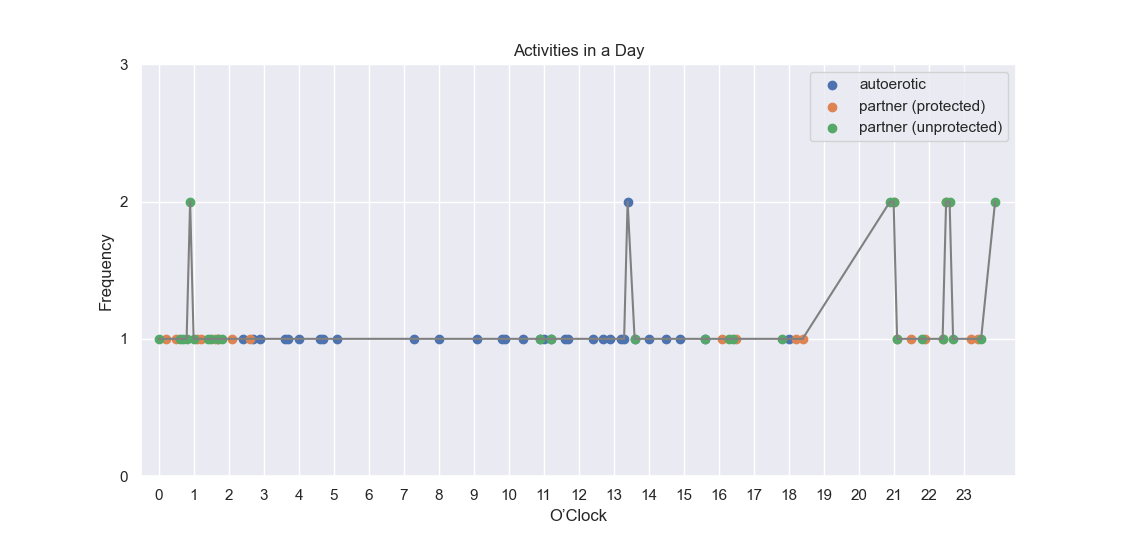
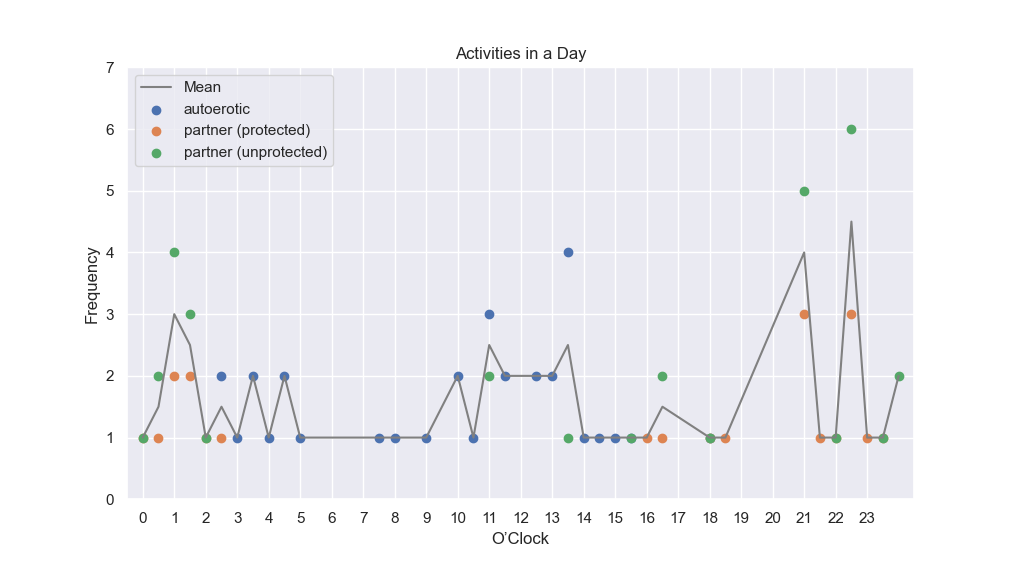
Improve plot_day for smaller data sizes

diff --git a/sex_stats.py b/sex_stats.py
@@ -11,7 +11,7 @@ import seaborn as sns
 from matplotlib.gridspec import GridSpec
 from pandas import DataFrame, read_csv, to_datetime
 
-__version__ = '1.2 (i-miss-you)'
+__version__ = '1.3 (i-miss-you)'
 
 
 class Regex(str, Enum):
@@ -130,21 +130,42 @@ def plot_freq_bar(df, offset_alias: str = 'M', ax=None, legend: bool = True):
     ax.set_xlabel(f'Period ({offset_alias})')
 
 
+def time_function(df: DataFrame):
+    """Returns a function that calculates o’clock fractions.
+
+    Should I keep narrowing the divisions as the size goes bigger?
+        -> no, because < 1 min does not make sense. 6 mins already suffice.
+    """
+    data_size = df.shape[0]
+
+    def fn(x):
+        if data_size <= 50:  # use whole hour
+            step = round(x.minute/60)
+        elif data_size <= 100:  # use half division (every 30 mins)
+            step = round(x.minute/60*2)/2
+        elif data_size <= 200:  # use quatre division (every 15 mins)
+            step = round(x.minute/60*4)/4
+        else:  # use tenth division of hour (every 6 mins)
+            step = round(x.minute/60, 1)
+        return x.hour + step
+
+    return fn
+
+
 def plot_density(df, ax=None, legend: bool = True):
     """Plot KDE (Kernel Density Estimation).
     """
     if not ax:
         ax = plt.subplot()
 
-    time_function = lambda x: (x.hour + round(x.minute/60, 1))
-
     grouped = df.set_index('TimeStamp')\
-                .groupby(time_function)['Kind'].value_counts().unstack()
+                .groupby(time_function(df))['Kind'].value_counts().unstack()
 
     grouped.plot.kde(ax=ax, legend=legend)
 
     ax.set_title('Kernel Density Estimation')
     ax.set_ylabel('Density')
+    ax.set_xlabel('Repeated Times')
 
 
 def plot_day_hour(df, ax=None, legend: bool = True):
@@ -153,14 +174,12 @@ def plot_day_hour(df, ax=None, legend: bool = True):
     if not ax:
         ax = plt.subplot()
 
-    time_function = lambda x: (x.hour + round(x.minute/60, 1))
-
     grouped = df.set_index('TimeStamp')\
-                .groupby(time_function)['Kind'].value_counts().unstack()
+                .groupby(time_function(df))['Kind'].value_counts().unstack()
 
     # Plot mean
     grouped_mean = grouped.mean(axis=1)  # .fillna(0)
-    ax.plot(grouped_mean.index, grouped_mean, color='grey')
+    ax.plot(grouped_mean.index, grouped_mean, color='grey', linestyle='-', label='Mean')
 
     # Plot scattered points
     for kind in grouped.columns:
@@ -189,13 +208,13 @@ def plot_all(df):
     ax = fig.add_subplot(gs[0, :])
     plot_day_hour(df, ax=ax, legend=False)
 
-    ax2 = fig.add_subplot(gs[1, 1])
-    plot_density(df, ax=ax2, legend=False)
+    ax2 = fig.add_subplot(gs[1, 0])
+    plot_freq_bar(df, ax=ax2, legend=False)
 
-    ax3 = fig.add_subplot(gs[1, 0])
-    plot_freq_bar(df, ax=ax3, legend=False)
+    ax3 = fig.add_subplot(gs[1, 1])
+    plot_density(df, ax=ax3, legend=False)
 
-    handles, labels = ax.get_legend_handles_labels()
+    handles, labels = ax3.get_legend_handles_labels()
     fig.legend(handles, labels, title='Kind', loc='upper right')
 
 
